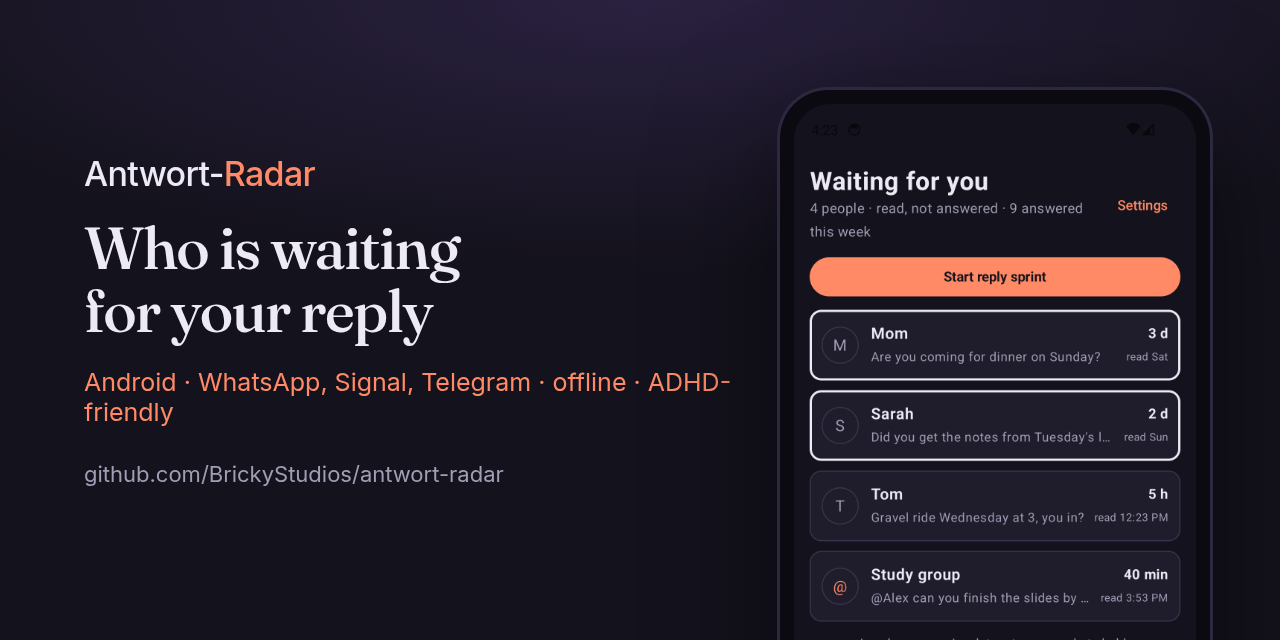
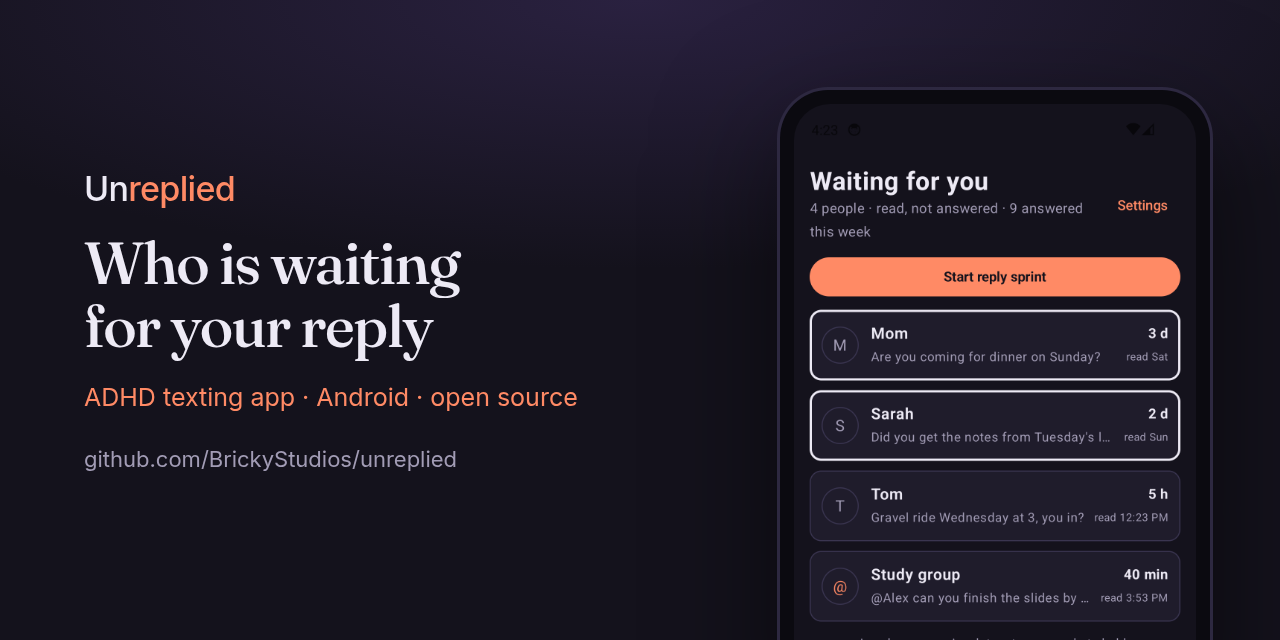
Umbenannt in Unreplied (v0.2.1), SEO nach OpenSEO-Recherche
Antwort-Radar heißt international Unreplied: Repo, App-Name, APK (Unreplied.apk),
Website (brickystudios.github.io/unreplied), Bilder. Die App-ID bleibt, Updates
über Obtainium laufen weiter. README-H1, Seitentitel und Beschreibung zielen auf
die Suchbegriffe aus OpenSEO (ADHD texting, text back, unanswered texts,
WhatsApp reminder), dazu FAQ mit FAQPage-Daten auf der Website.

Changed region(s): [[0.0625, 0.3438, 0.5625, 0.6562], [0.0625, 0.6875, 0.4062, 0.75], [0.0625, 0.25, 0.25, 0.3125]]

diff --git a/docs/index.html b/docs/index.html
@@ -3,32 +3,80 @@
 <head>
 <meta charset="utf-8">
 <meta name="viewport" content="width=device-width, initial-scale=1">
-<title>Antwort-Radar: reply reminder for WhatsApp, Signal and Telegram on Android (ADHD-friendly, open source)</title>
-<meta name="description" content="Read a message and forgot to reply? Antwort-Radar notices when you open a WhatsApp, Signal or Telegram chat without answering, lists who is waiting and lets you answer everyone in one sprint. Free, open source, no internet permission.">
-<link rel="canonical" href="https://brickystudios.github.io/antwort-radar/">
-<link rel="alternate" hreflang="en" href="https://brickystudios.github.io/antwort-radar/">
-<link rel="alternate" hreflang="de" href="https://brickystudios.github.io/antwort-radar/#deutsch">
+<title>Unreplied: ADHD texting app that reminds you to text back (Android, free, open source)</title>
+<meta name="description" content="Read a text, answered it in your head and never sent it? Unreplied is a free Android app that reminds you of unanswered WhatsApp, Signal, Telegram and SMS messages. ADHD-friendly, offline, open source.">
+<link rel="canonical" href="https://brickystudios.github.io/unreplied/">
+<link rel="alternate" hreflang="en" href="https://brickystudios.github.io/unreplied/">
+<link rel="alternate" hreflang="de" href="https://brickystudios.github.io/unreplied/#deutsch">
 <meta property="og:type" content="website">
-<meta property="og:title" content="Antwort-Radar: never forget a WhatsApp you read but didn't answer">
-<meta property="og:description" content="Android app that lists who is waiting for your reply. Offline, open source, ADHD-friendly.">
-<meta property="og:url" content="https://brickystudios.github.io/antwort-radar/">
-<meta property="og:image" content="https://brickystudios.github.io/antwort-radar/bilder/social-preview.png">
+<meta property="og:title" content="Unreplied: the ADHD texting app that reminds you to text back">
+<meta property="og:description" content="Lists who is waiting for your reply on WhatsApp, Signal, Telegram and SMS. Free Android app, offline, open source.">
+<meta property="og:url" content="https://brickystudios.github.io/unreplied/">
+<meta property="og:image" content="https://brickystudios.github.io/unreplied/bilder/social-preview.png">
 <meta name="twitter:card" content="summary_large_image">
 <meta name="theme-color" content="#14121C">
 <script type="application/ld+json">
 {
   "@context": "https://schema.org",
   "@type": "SoftwareApplication",
-  "name": "Antwort-Radar",
-  "alternateName": "Reply Radar",
+  "name": "Unreplied",
+  "alternateName": "Unreplied",
   "operatingSystem": "Android 8.0+",
   "applicationCategory": "UtilitiesApplication",
   "description": "Reply reminder for WhatsApp, Signal, Telegram and SMS on Android. Notices when you open a chat and don't answer, lists who is waiting for you, offers a reply sprint with quick replies and sends one reminder a day. No internet permission.",
   "offers": { "@type": "Offer", "price": "0", "priceCurrency": "EUR" },
   "license": "https://www.gnu.org/licenses/gpl-3.0.html",
-  "downloadUrl": "https://github.com/BrickyStudios/antwort-radar/releases/latest/download/AntwortRadar.apk",
-  "codeRepository": "https://github.com/BrickyStudios/antwort-radar",
-  "screenshot": "https://brickystudios.github.io/antwort-radar/bilder/1-waiting.png"
+  "downloadUrl": "https://github.com/BrickyStudios/unreplied/releases/latest/download/Unreplied.apk",
+  "codeRepository": "https://github.com/BrickyStudios/unreplied",
+  "screenshot": "https://brickystudios.github.io/unreplied/bilder/1-waiting.png"
+}
+</script>
+<script type="application/ld+json">
+{
+ "@context": "https://schema.org",
+ "@type": "FAQPage",
+ "mainEntity": [
+  {
+   "@type": "Question",
+   "name": "How do I remember to text people back?",
+   "acceptedAnswer": {
+    "@type": "Answer",
+    "text": "Unreplied keeps the list for you. It notices when you open a chat on WhatsApp, Signal, Telegram or SMS and don't reply, and shows everyone who is waiting, oldest first. Once a day it sends one reminder, never one per message."
+   }
+  },
+  {
+   "@type": "Question",
+   "name": "Is there an app for unanswered WhatsApp messages?",
+   "acceptedAnswer": {
+    "@type": "Answer",
+    "text": "Yes. Unreplied is a free Android app that tracks WhatsApp chats you read but didn't answer. WhatsApp itself only marks chats unread until you open them."
+   }
+  },
+  {
+   "@type": "Question",
+   "name": "Does Unreplied read my messages or upload them?",
+   "acceptedAnswer": {
+    "@type": "Answer",
+    "text": "It reads the notifications of the messengers you switch on and keeps the name, the times and the first 80 characters of the last message on your phone. The app has no internet permission, so it cannot send anything anywhere."
+   }
+  },
+  {
+   "@type": "Question",
+   "name": "Why is texting back so hard with ADHD?",
+   "acceptedAnswer": {
+    "@type": "Answer",
+    "text": "Many people with ADHD read a message, plan the answer in their head and get pulled away before sending it. Once the chat is opened, the unread badge is gone and the reminder with it. Unreplied brings that reminder back."
+   }
+  },
+  {
+   "@type": "Question",
+   "name": "Is there an iPhone version?",
+   "acceptedAnswer": {
+    "@type": "Answer",
+    "text": "No. Unreplied needs Android's notification access, which iOS doesn't offer to apps."
+   }
+  }
+ ]
 }
 </script>
 <style>
@@ -38,6 +86,7 @@
   main { max-width: 760px; margin: 0 auto; padding: 56px 16px 80px; }
   .brand { font-weight: 600; letter-spacing: -.01em; } .brand b { color: var(--coral); font-weight: 600; }
   h1 { font-size: clamp(34px, 7vw, 52px); line-height: 1.08; letter-spacing: -.025em; margin: 18px 0 16px; }
+  h3 { font-size: 17px; margin: 22px 0 4px; }
   h2 { font-size: 24px; margin: 56px 0 12px; letter-spacing: -.01em; }
   p, li { color: var(--paper); } .muted { color: var(--muted); }
   a { color: var(--coral); }
@@ -54,12 +103,12 @@
 </head>
 <body>
 <main>
-  <div class="brand">Antwort-<b>Radar</b></div>
-  <h1>Never forget a WhatsApp you read but didn't answer</h1>
-  <p>You open a chat, answer in your head, and never send it. Your messenger stops showing the chat as unread the moment you open it. Antwort-Radar notices exactly that moment and keeps a short list of <strong>who is waiting for your reply</strong>, and for how long.</p>
+  <div class="brand">Un<b>replied</b></div>
+  <h1>The ADHD texting app that reminds you to text back</h1>
+  <p>You open a chat, answer in your head, and never send it. Your messenger stops showing the chat as unread the moment you open it. Unreplied notices exactly that moment and keeps a short list of <strong>who is waiting for your reply</strong>, and for how long.</p>
   <p class="muted">Free Android app · WhatsApp, Signal, Telegram, Threema, SMS · no internet permission · no account · English and German · built for people with ADHD</p>
-  <a class="cta" href="https://github.com/BrickyStudios/antwort-radar/releases/latest/download/AntwortRadar.apk">Download APK</a>
-  <a class="cta ghost" href="https://github.com/BrickyStudios/antwort-radar">Source code on GitHub</a>
+  <a class="cta" href="https://github.com/BrickyStudios/unreplied/releases/latest/download/Unreplied.apk">Download APK</a>
+  <a class="cta ghost" href="https://github.com/BrickyStudios/unreplied">Source code on GitHub</a>
 
   <div class="shots">
     <img src="bilder/1-waiting.png" alt="List of people waiting for a reply, oldest first" loading="lazy" width="260" height="462">
@@ -80,7 +129,7 @@
   </table>
 
   <h2>Nothing to type in</h2>
-  <p>A to-do app only helps if you type the reminder in, right when your head is already somewhere else. Antwort-Radar fills the list on its own from the notifications Android already shows you.</p>
+  <p>A to-do app only helps if you type the reminder in, right when your head is already somewhere else. Unreplied fills the list on its own from the notifications Android already shows you.</p>
 
   <h2>Privacy</h2>
   <ul>
@@ -90,11 +139,23 @@
     <li>Open source under GPL-3.0.</li>
   </ul>
 
-  <h2 id="deutsch">Auf Deutsch</h2>
-  <p>Du liest eine Nachricht, antwortest im Kopf und schickst nie ab. Antwort-Radar merkt, wenn du einen Chat öffnest und nicht antwortest, und zeigt dir, wer seit wann auf dich wartet. Mit Antwort-Sprint, Textbausteinen, „Später“ und einer Sammelmeldung am Tag. Für WhatsApp, Signal, Telegram, Threema und SMS. Kostenlos, ohne Internet-Berechtigung, Open Source.</p>
-  <a class="cta" href="https://github.com/BrickyStudios/antwort-radar/releases/latest/download/AntwortRadar.apk">APK herunterladen</a>
+  <h2>Questions</h2>
+  <h3>How do I remember to text people back?</h3>
+  <p>Unreplied keeps the list for you. It notices when you open a chat on WhatsApp, Signal, Telegram or SMS and don't reply, and shows everyone who is waiting, oldest first. Once a day it sends one reminder, never one per message.</p>
+  <h3>Is there an app for unanswered WhatsApp messages?</h3>
+  <p>Yes. Unreplied is a free Android app that tracks WhatsApp chats you read but didn't answer. WhatsApp itself only marks chats unread until you open them.</p>
+  <h3>Does Unreplied read my messages or upload them?</h3>
+  <p>It reads the notifications of the messengers you switch on and keeps the name, the times and the first 80 characters of the last message on your phone. The app has no internet permission, so it cannot send anything anywhere.</p>
+  <h3>Why is texting back so hard with ADHD?</h3>
+  <p>Many people with ADHD read a message, plan the answer in their head and get pulled away before sending it. Once the chat is opened, the unread badge is gone and the reminder with it. Unreplied brings that reminder back.</p>
+  <h3>Is there an iPhone version?</h3>
+  <p>No. Unreplied needs Android's notification access, which iOS doesn't offer to apps.</p>
 
-  <footer>Antwort-Radar is not affiliated with WhatsApp or Meta. · <a href="https://github.com/BrickyStudios">BrickyStudios</a></footer>
+  <h2 id="deutsch">Auf Deutsch</h2>
+  <p>Unreplied (früher Antwort-Radar) ist eine WhatsApp-Erinnerung für unbeantwortete Nachrichten. Du liest eine Nachricht, antwortest im Kopf und schickst nie ab. Unreplied merkt, wenn du einen Chat öffnest und nicht antwortest, und zeigt dir, wer seit wann auf dich wartet. Mit Antwort-Sprint, Textbausteinen, „Später“ und einer Sammelmeldung am Tag. Für WhatsApp, Signal, Telegram, Threema und SMS. Kostenlos, ohne Internet-Berechtigung, Open Source.</p>
+  <a class="cta" href="https://github.com/BrickyStudios/unreplied/releases/latest/download/Unreplied.apk">APK herunterladen</a>
+
+  <footer>Unreplied is not affiliated with WhatsApp or Meta. · <a href="https://github.com/BrickyStudios">BrickyStudios</a></footer>
 </main>
 </body>
 </html>

diff --git a/tools/rahmen.html b/tools/rahmen.html
@@ -23,6 +23,6 @@ const q=new URLSearchParams(location.search);
 document.documentElement.style.setProperty("--w",q.get("w")+"px");document.documentElement.style.setProperty("--h",q.get("h")+"px");
 const t=q.get("t").replace("|","<br>");
 document.body.innerHTML = q.get("art")==="wide"
- ? `<div class="wide"><div><div class="brand">Antwort-<b>Radar</b></div><h1>${t}</h1><div class="sub">${q.get("s")}</div><div class="small">github.com/BrickyStudios/antwort-radar</div></div><div class="phone"><img src="${q.get("img")}"></div></div>`
+ ? `<div class="wide"><div><div class="brand">Un<b>replied</b></div><h1>${t}</h1><div class="sub">${q.get("s")}</div><div class="small">github.com/BrickyStudios/unreplied</div></div><div class="phone"><img src="${q.get("img")}"></div></div>`
  : `<div class="tall"><h1>${t}</h1><div class="sub">${q.get("s")}</div><div class="phone"><img src="${q.get("img")}"></div></div>`;
 </script></body></html>

diff --git a/app/src/main/java/io/github/brickystudios/antwortradar/SettingsScreen.kt b/app/src/main/java/io/github/brickystudios/antwortradar/SettingsScreen.kt
@@ -152,7 +152,7 @@ fun SettingsScreen(now: Long, onBack: () -> Unit) {
         ) { Text(stringResource(if (confirmDelete) R.string.delete_confirm else R.string.delete_all), color = if (confirmDelete) Coral else Text1) }
 
         TextButton(onClick = {
-            runCatching { ctx.startActivity(Intent(Intent.ACTION_VIEW, Uri.parse("https://github.com/BrickyStudios/antwort-radar"))) }
+            runCatching { ctx.startActivity(Intent(Intent.ACTION_VIEW, Uri.parse("https://github.com/BrickyStudios/unreplied"))) }
         }) { Text(stringResource(R.string.about, BuildConfig.VERSION_NAME), color = Text2, fontSize = 12.sp) }
     }
 }

diff --git a/README.md b/README.md
@@ -1,8 +1,8 @@
-<p align="center"><img src="docs/bilder/social-preview.png" width="860" alt="Antwort-Radar: reply reminder for WhatsApp on Android. Phone showing the list of people waiting for a reply"></p>
+<p align="center"><img src="docs/bilder/social-preview.png" width="860" alt="Unreplied, the ADHD texting app for Android: list of people waiting for you to text back, with how long each one has waited"></p>
 
-<h1 align="center">Antwort-Radar: reply reminder for WhatsApp, Signal, Telegram and SMS on Android, for people who read a message and forget to answer (ADHD-friendly)</h1>
+<h1 align="center">Unreplied: ADHD texting app that reminds you to text back on WhatsApp, Signal, Telegram and SMS (Android, open source)</h1>
 
-<p align="center"><strong>Antwort-Radar notices when you open a chat and then don't reply. It keeps a short list of who is waiting for you and how long, lets you answer everyone in one reply sprint, and sends one reminder a day. No typing anything in, no account, no internet permission. Open source, English and German, runs on GrapheneOS.</strong></p>
+<p align="center"><strong>Read a message, answered it in your head, never sent it? Unreplied notices when you open a chat and don't reply, keeps a list of unanswered texts and who has waited how long, lets you text everyone back in one reply sprint, and sends one reminder a day. No typing anything in, no account, no internet permission. Free, open source, English and German, runs on GrapheneOS.</strong></p>
 
 <p align="center">
   <a href="https://kotlinlang.org/"><img alt="Made with Kotlin" src="https://img.shields.io/badge/made_with-Kotlin-14121C?style=for-the-badge&logo=kotlin&logoColor=FF8A65"></a>
@@ -12,14 +12,14 @@
   <a href="#messengers"><img alt="WhatsApp, Signal, Telegram, Threema, SMS" src="https://img.shields.io/badge/Messengers-WhatsApp_·_Signal_·_Telegram_·_SMS-FF8A65?labelColor=14121C"></a>
   <a href="#privacy"><img alt="No internet permission" src="https://img.shields.io/badge/Internet_permission-none-FF8A65?labelColor=14121C"></a>
   <a href="https://developer.android.com/compose"><img alt="Jetpack Compose" src="https://img.shields.io/badge/UI-Jetpack_Compose-FF8A65?logo=jetpackcompose&logoColor=FF8A65&labelColor=14121C"></a>
-  <a href="https://github.com/BrickyStudios/antwort-radar/actions/workflows/ci.yml"><img alt="Tests" src="https://img.shields.io/github/actions/workflow/status/BrickyStudios/antwort-radar/ci.yml?label=tests&color=FF8A65&labelColor=14121C"></a>
+  <a href="https://github.com/BrickyStudios/unreplied/actions/workflows/ci.yml"><img alt="Tests" src="https://img.shields.io/github/actions/workflow/status/BrickyStudios/unreplied/ci.yml?label=tests&color=FF8A65&labelColor=14121C"></a>
   <a href="LICENSE"><img alt="License GPL-3.0" src="https://img.shields.io/badge/license-GPL--3.0-FF8A65?labelColor=14121C"></a>
-  <a href="https://github.com/BrickyStudios/antwort-radar/commits/main"><img alt="Last commit" src="https://img.shields.io/github/last-commit/BrickyStudios/antwort-radar?color=FF8A65&labelColor=14121C"></a>
+  <a href="https://github.com/BrickyStudios/unreplied/commits/main"><img alt="Last commit" src="https://img.shields.io/github/last-commit/BrickyStudios/unreplied?color=FF8A65&labelColor=14121C"></a>
 </p>
 
 <p align="center">
-  <a href="https://github.com/BrickyStudios/antwort-radar/releases/latest/download/AntwortRadar.apk"><img alt="Download AntwortRadar.apk" src="https://img.shields.io/badge/Download-AntwortRadar.apk-FF8A65?style=for-the-badge&logo=android&logoColor=14121C&labelColor=FF8A65&color=14121C"></a>
-  <a href="https://brickystudios.github.io/antwort-radar/"><img alt="Website" src="https://img.shields.io/badge/Website-EN_·_DE-14121C?style=for-the-badge&labelColor=14121C&color=1F1C2B"></a>
+  <a href="https://github.com/BrickyStudios/unreplied/releases/latest/download/Unreplied.apk"><img alt="Download Unreplied.apk" src="https://img.shields.io/badge/Download-Unreplied.apk-FF8A65?style=for-the-badge&logo=android&logoColor=14121C&labelColor=FF8A65&color=14121C"></a>
+  <a href="https://brickystudios.github.io/unreplied/"><img alt="Website" src="https://img.shields.io/badge/Website-EN_·_DE-14121C?style=for-the-badge&labelColor=14121C&color=1F1C2B"></a>
 </p>
 
 <p align="center">
@@ -34,7 +34,7 @@
 
 You open a chat, read it, write the answer in your head, put the phone down, and never send it. WhatsApp only marks a chat unread until you open it, so after that it's off the radar. With ADHD this happens all the time, and friends read the silence as "doesn't care". Threads like [this one on r/ADHD](https://www.reddit.com/r/ADHD/comments/1wm31ed/) (1,300+ upvotes, "I ruined an old friendship") are full of people who lost someone this way.
 
-Antwort-Radar ("reply radar") catches the moment it happens. When your messenger removes its notification because you opened the chat, the chat goes on a list: **read, not answered**. It stays there until you reply, swipe it away or push it to later.
+Unreplied catches the moment it happens. It started as Antwort-Radar (German for "reply radar"). When your messenger removes its notification because you opened the chat, the chat goes on a list: **read, not answered**. It stays there until you reply, swipe it away or push it to later.
 
 <p align="center">
   <img src="docs/bilder/1-waiting.png" width="250" alt="List of people waiting for a reply: Mom for 3 days, Sarah for 2 days, Tom, a study group mention, one chat pushed to later and a favorite you haven't written to in 5 weeks">
@@ -44,14 +44,14 @@ Antwort-Radar ("reply radar") catches the moment it happens. When your messenger
 
 ## Install
 
-1. Download [`AntwortRadar.apk`](https://github.com/BrickyStudios/antwort-radar/releases/latest/download/AntwortRadar.apk) and open it (Android 8.0 or newer).
-2. Tap **Allow access** and switch on notification access for Antwort-Radar. If the switch is greyed out, open the app info, tap ⋮ and choose *Allow restricted settings* (Android 13+ asks this for apps installed from a file).
+1. Download [`Unreplied.apk`](https://github.com/BrickyStudios/unreplied/releases/latest/download/Unreplied.apk) and open it (Android 8.0 or newer).
+2. Tap **Allow access** and switch on notification access for Unreplied. If the switch is greyed out, open the app info, tap ⋮ and choose *Allow restricted settings* (Android 13+ asks this for apps installed from a file).
 3. Optional: add the widget to your home screen and the tile to your quick settings.
-4. Updates: add `https://github.com/BrickyStudios/antwort-radar` to [Obtainium](https://github.com/ImranR98/Obtainium). The app has no internet permission, so it can't update itself.
+4. Updates: add `https://github.com/BrickyStudios/unreplied` to [Obtainium](https://github.com/ImranR98/Obtainium). The app has no internet permission, so it can't update itself.
 
 ## How it works
 
-| You do this | Antwort-Radar does this |
+| You do this | Unreplied does this |
 |---|---|
 | Someone writes you | Notes the chat as unread (greyed out, your messenger shows these anyway) |
 | You open the chat, tap or swipe the notification | Moves it to **Waiting for you**, oldest first, with the time you read it |
@@ -62,7 +62,7 @@ Antwort-Radar ("reply radar") catches the moment it happens. When your messenger
 | Someone waits more than 2 days | The entry gets a heavy border, no red alarm colours |
 | 19:00 (you pick the hour) | One notification: "3 people are waiting for you: Mom (3 d), Sarah (2 d), Tom (5 h)" |
 
-**Reply without switching apps.** While the radar holds a chat's notification, it can send your text through the messenger's own reply button, and tapping the entry opens that exact chat. When the button is gone (for example after a phone restart), the sprint copies your text and opens the messenger instead.
+**Reply without switching apps.** While Unreplied holds a chat's notification, it can send your text through the messenger's own reply button, and tapping the entry opens that exact chat. When the button is gone (for example after a phone restart), the sprint copies your text and opens the messenger instead.
 
 **Quick replies.** Four defaults ("Saw it, I'll get back to you tonight.", "Sounds good!", ...), editable in the settings. Having a few sentences ready is a tip from the [r/ADHD thread](https://www.reddit.com/r/ADHD/comments/1wm31ed/) that started this app.
 
@@ -82,23 +82,23 @@ On by default: WhatsApp, WhatsApp Business, Signal, Molly, Telegram, Telegram X,
 
 ## Privacy
 
-- **No internet permission.** Check it yourself: `aapt dump permissions AntwortRadar.apk` lists only `POST_NOTIFICATIONS`.
+- **No internet permission.** Check it yourself: `aapt dump permissions Unreplied.apk` lists only `POST_NOTIFICATIONS`.
 - Only the messengers you switch on are read. Every other app's notifications are skipped in the first check of the listener.
 - Stored per chat: name, times, the first 80 characters of the last message. All in one file in the app's private storage, excluded from cloud backup and device transfer. **Delete all data** in the settings wipes it.
 - No analytics, no crash reporting, no Google libraries beyond AndroidX.
 
 ## Limits
 
-- Read detection is tested on an emulator, not yet with every messenger on real phones. The check log tells you how yours behaves; please [open an issue](https://github.com/BrickyStudios/antwort-radar/issues) with the codes you see.
-- Messages that arrive while the chat is open on screen never create a notification, so the radar doesn't see them.
-- "Answered" is only detected when you reply from the notification or the radar. Replies typed in the messenger need a swipe.
+- Read detection is tested on an emulator, not yet with every messenger on real phones. The check log tells you how yours behaves; please [open an issue](https://github.com/BrickyStudios/unreplied/issues) with the codes you see.
+- Messages that arrive while the chat is open on screen never create a notification, so Unreplied doesn't see them.
+- "Answered" is only detected when you reply from the notification or from Unreplied. Replies typed in the messenger need a swipe.
 - Reply buttons and "open this exact chat" live in memory. After a phone restart they come back with the next notification of that chat.
 - Android 13+ blocks notification access for apps installed from a file until you allow restricted settings in the app info. The app explains the steps.
 
 ## Build it yourself
 
 ```bash
-git clone https://github.com/BrickyStudios/antwort-radar && cd antwort-radar
+git clone https://github.com/BrickyStudios/unreplied && cd unreplied
 JAVA_HOME=/path/to/jdk-17 ./gradlew testDebugUnitTest assembleDebug
 ```
 
@@ -112,7 +112,9 @@ Release APKs are built and signed by GitHub Actions when a `v*` tag is pushed.
 
 ## Auf Deutsch
 
-Du liest eine Nachricht, antwortest im Kopf und schickst nie ab. Antwort-Radar merkt, wenn die Benachrichtigung verschwindet, weil du den Chat geöffnet hast, und setzt den Chat auf die Liste **Wartet auf dich**. Dort steht, wer seit wann auf dich wartet.
+Unreplied (früher Antwort-Radar) ist eine WhatsApp-Erinnerung für unbeantwortete Nachrichten, gebaut für Menschen mit ADHS.
+
+Du liest eine Nachricht, antwortest im Kopf und schickst nie ab. Unreplied merkt, wenn die Benachrichtigung verschwindet, weil du den Chat geöffnet hast, und setzt den Chat auf die Liste **Wartet auf dich**. Dort steht, wer seit wann auf dich wartet.
 
 - Wischen nach links: erledigt. Nach rechts: später (kommt von selbst wieder)
 - **Antwort-Sprint**: alle Wartenden nacheinander, mit eigenen Textbausteinen, direkt über den Antwort-Knopf des Messengers
@@ -120,7 +122,7 @@ Du liest eine Nachricht, antwortest im Kopf und schickst nie ab. Antwort-Radar m
 - WhatsApp, Signal, Telegram, Threema und SMS, jeder Messenger einzeln schaltbar
 - Widget, Schnelleinstellungs-Kachel und eine Tagesmeldung zu deiner Uhrzeit, nie eine pro Nachricht
 - Ohne Internet-Berechtigung, ohne Konto, App auf Deutsch und Englisch, läuft auf GrapheneOS
-- [APK herunterladen](https://github.com/BrickyStudios/antwort-radar/releases/latest/download/AntwortRadar.apk), Updates über Obtainium
+- [APK herunterladen](https://github.com/BrickyStudios/unreplied/releases/latest/download/Unreplied.apk), Updates über Obtainium
 
 ## License
 
